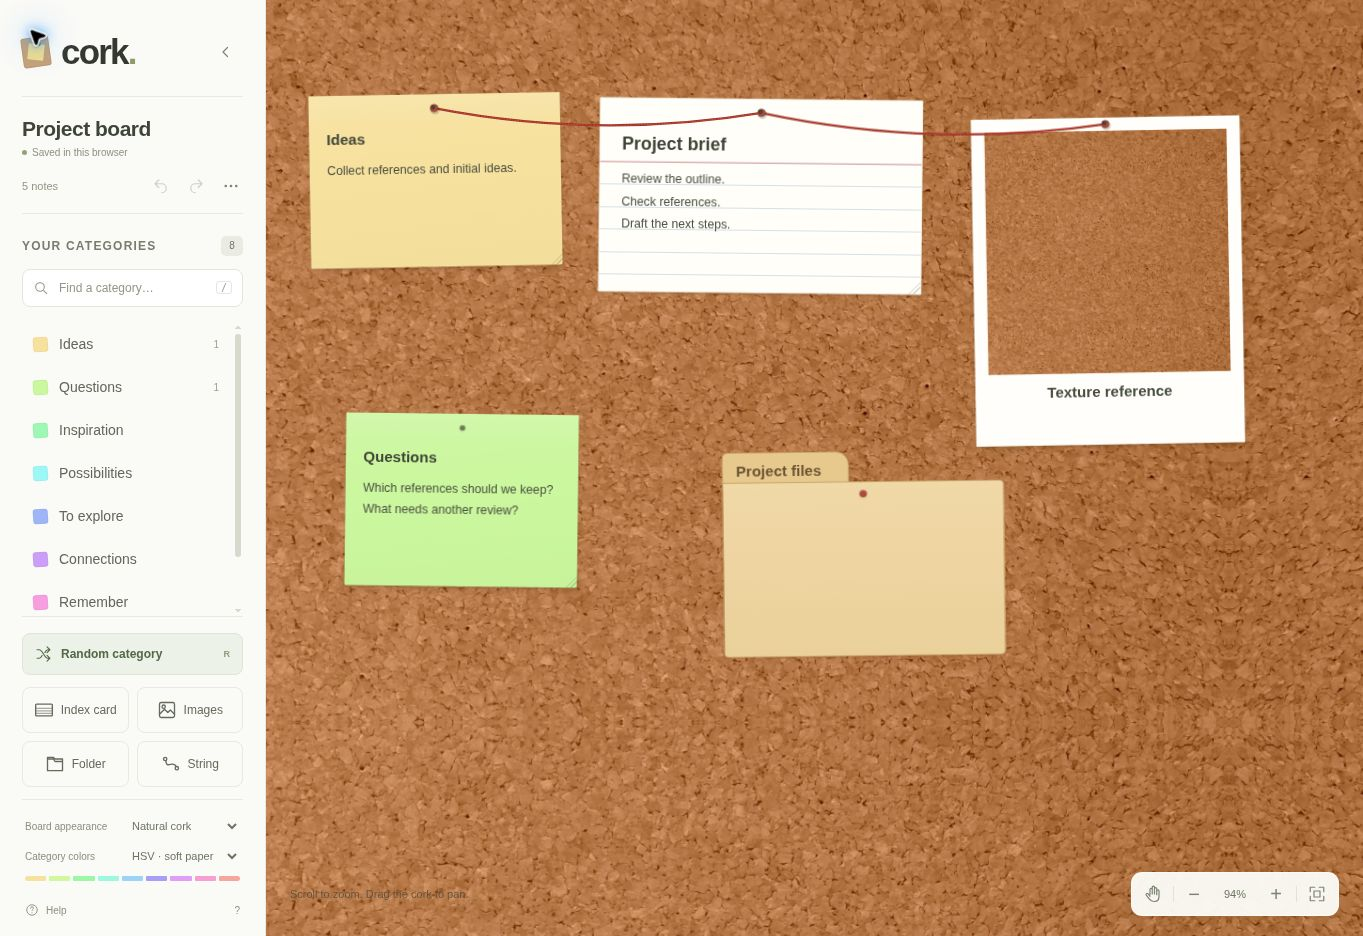
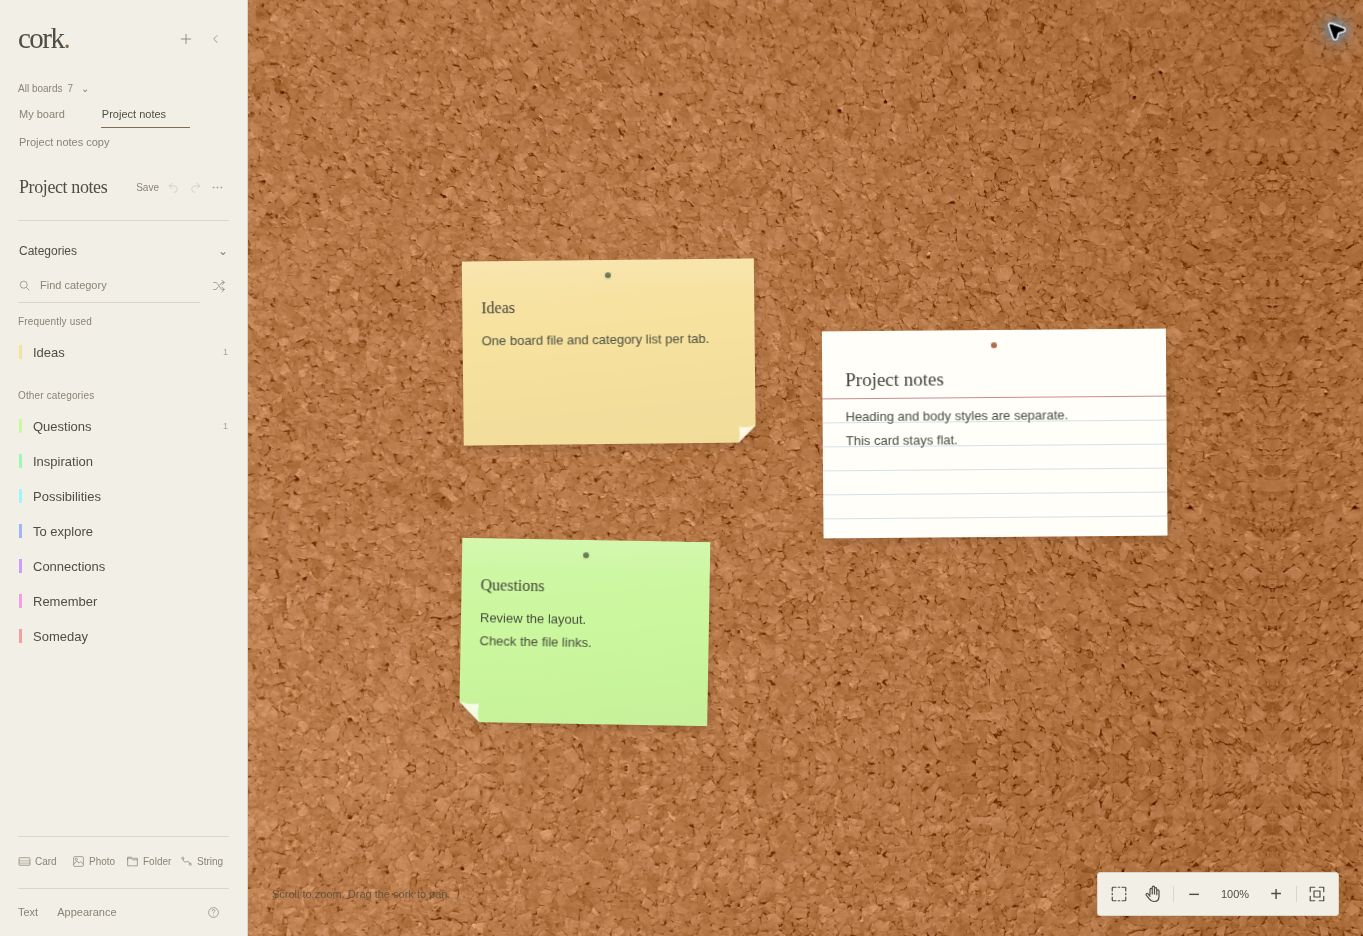
Refine compact type controls and document the minimal sidebar and dark board picker

diff --git a/styles.css b/styles.css
@@ -757,7 +757,7 @@ body[data-ui-theme=dark] { color-scheme:dark; --rail-bg:#242520; --rail-ink:#d6d
 .sidebar-bottom>.appearance-section { display:none; }
 .sidebar-bottom>.appearance-section[open] { display:block; position:absolute; z-index:50; bottom:91px; left:-1px; right:-1px; margin:0; padding:13px 12px 14px; background:var(--rail-bg); border:1px solid var(--rail-rule); box-shadow:0 5px 20px #25201516; }
 .sidebar-bottom>.appearance-section summary { color:var(--rail-ink); font-size:12px; padding:0 0 12px; }
-.text-style-grid { grid-template-columns:42px minmax(0,1fr) 34px minmax(0,1.15fr); gap:9px 3px; }
+.text-style-grid { grid-template-columns:35px minmax(0,1fr) 26px minmax(0,1.5fr); gap:9px 3px; }
 .text-settings select,.text-settings input { padding:6px 2px; border:0; border-radius:0; border-bottom:1px solid var(--rail-rule); background:none; color:var(--rail-ink); font-size:10px; }
 .text-style-grid>label,.text-style-grid>span,.text-settings-target button { color:var(--rail-muted); }
 .text-settings-target { margin-top:1px; }

diff --git a/README.md b/README.md
@@ -4,7 +4,7 @@ A cork board for notes, index cards, Polaroid photos, and local folder links. An
 
 [Open Cork](https://briday1.github.io/cork/)
 
-![Cork with notes, a ruled index card, a Polaroid, and a folder](./docs/cork-board.jpg)
+![Cork with a minimal sidebar, board tabs, sticky notes, and a flat index card](./docs/cork-board.jpg)
 
 **Plain HTML, CSS, and JavaScript. No backend, accounts, API keys, or install step required.** GitHub Pages serves the same static files that run locally.
 
@@ -19,7 +19,7 @@ A cork board for notes, index cards, Polaroid photos, and local folder links. An
 
 **Select multiple items:** Shift-click to add or remove notes, cards, photos, folders, or strings from the selection. The **Select tool** beside the hand tool also lets you click to toggle items or drag a box across the cork. Hold Shift while drawing another box to add to the selection. Drag a selected item in Select mode, or its top edge in normal mode, to move the selected papers together; strings follow their pins. Arrow keys on a selected item’s move handle move the whole group. Use **Delete selected elements** (or Delete/Backspace) to remove the selection and any attached strings in one undoable change. **Clear selection** clears the group; Escape also exits Select mode. Hold Space to pan temporarily without losing your selection.
 
-![Three board elements selected together, with group controls and the Select tool active.](./docs/cork-selection.jpg)
+![Selected notes with separate heading and body typography controls.](./docs/cork-selection.jpg)
 
 Use **Find a category** to search the scrollable list. The sidebar works with 100 or more categories. **Random category** picks from the entire category file, even when a search is active, and avoids immediately repeating the currently attached category when there is a choice.
 
@@ -37,7 +37,6 @@ Drag empty cork to pan. Use the bottom-right controls to zoom, switch to the han
 
 Select a note to reveal bullet, duplicate, and delete controls. Delete can be undone. The left sidebar holds the board name, save status, undo/redo, and the **⋯** board menu for file saving, exports, recently closed boards, and the guide. Click the board name to rename it. Collapse the sidebar with its chevron to give the board the whole screen; use the small sidebar button to bring it back. Desktop remembers your preference.
 
-![An empty board with the sidebar collapsed](./docs/cork-full-board.jpg)
 
 ### Keyboard shortcuts
 
@@ -70,6 +69,8 @@ Use **+** beside **cork.** for a new board, or **⋯ → Open board…** to open
 
 Load a categories `.txt` file independently for each tab, or keep the repository default. Two boards can deliberately use the same categories file. Opening a board file that is already linked brings its existing tab forward. Close a tab with its ×; its cached board and file pair remain available under **⋯ → Recently closed**. Closing a tab does not delete a local file. For a portable setup, keep each board `.json` together with its categories `.txt`; choose that pair once in a new browser.
 
+![Dark interface with the searchable All boards menu showing open and closed boards.](./docs/cork-dark-boards.jpg)
+
 ## Text style
 
 Use **Text** at the bottom of the sidebar to open the text settings. Choose **New notes** to set defaults, or **Selected notes** to change one note or a group. The **Text** button beside the selection controls opens the same settings. Heading and body have separate **Sans**, **Serif**, or **Mono** fonts, sizes, and weights. Changing one setting leaves the other settings alone. New notes use the usual paper sizes until you enter a size. Selected notes show their current sizes; clear a size to restore the usual size for that type of paper. **Reset** restores the standard style for the chosen target. Mixed selections keep their differences until you change that field.
@@ -100,13 +101,11 @@ Leading/trailing spaces and empty lines are ignored. Duplicate names are removed
 
 No category count is hard-coded. Maintainers can still edit the repository list to change the default for people who have not loaded a local list; it is fetched without caching. App updates and changes to that default never replace someone’s loaded local list.
 
-![Category file controls in the sidebar, with Load file and Save a copy.](./docs/cork-categories.jpg)
 
 ## Appearance and color maps
 
 The board uses a bundled photograph of real cork. The grain moves and scales with the notes as you pan and zoom, and mirrored photo edges keep the surface continuous. Board items cast soft shadows. Sticky notes and Polaroids have a small lifted lower corner, with a varied side and size that stays consistent across visits and board backups. Photos curl less than sticky notes. The cut-away corner shows the cork through it, and the shadow follows the paper shape. Index cards stay flat. Selected items use a bright, thick cyan outline. Index cards have white cardstock, a blank heading area, a red header rule, and blue lines that stay aligned as the title grows. PDF export keeps the paper detail and omits board shadows. Asset source and license are in [assets/README.md](./assets/README.md).
 
-![Soft shadows and small corner curls on sticky notes, beside a flat index card.](./docs/cork-paper.jpg)
 
 Use **Appearance** at the bottom of the sidebar to choose **System**, **Light**, or **Dark** for the interface. System is the default and follows operating-system changes; a manual choice stays remembered across board tabs. The paper-like sidebar uses plain text controls and small tool icons. The board menu holds file actions. You can also choose **Natural cork**, **Pale cork**, or **Dark cork** and independently choose a category color map:
 
